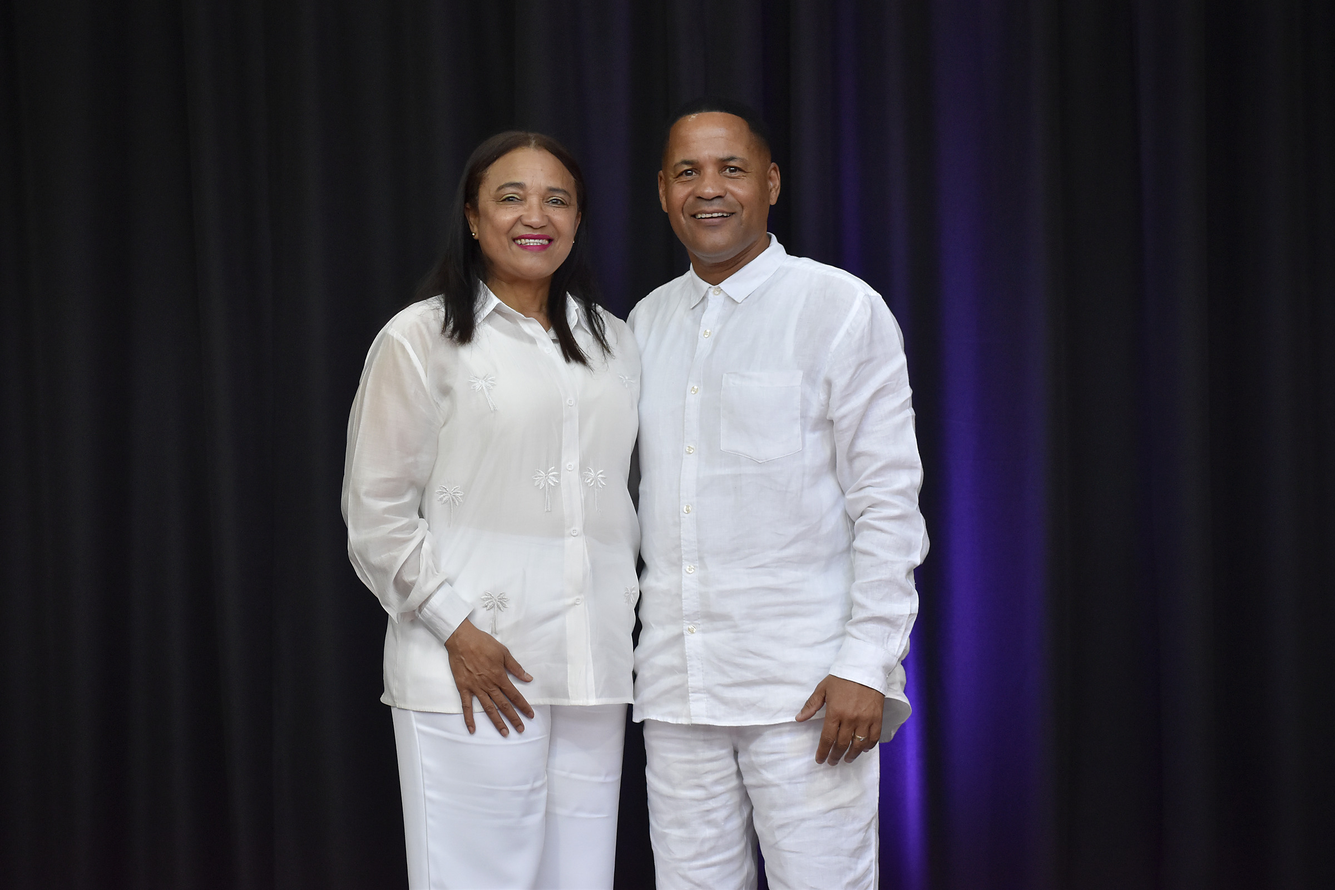
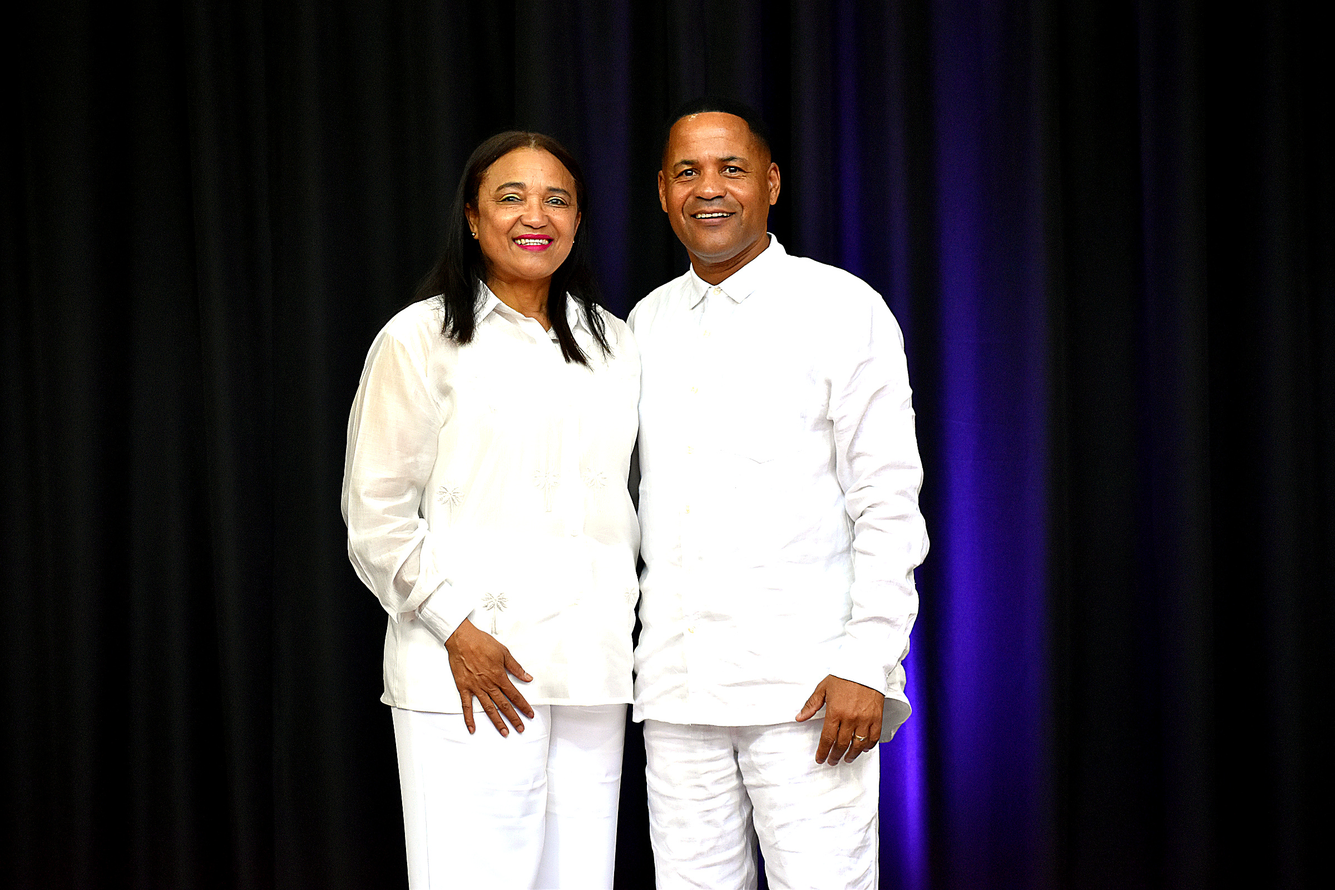
Enhance and shrink Connect leaders image; use site navy background for Home senior leaders

diff --git a/src/components/HomePage.tsx b/src/components/HomePage.tsx
@@ -205,7 +205,7 @@ export const HomePage: React.FC<HomePageProps> = ({
 
       {/* 3. Senior Leaders Showcase */}
       <section className="max-w-7xl mx-auto px-4 sm:px-6 lg:px-8">
-        <div className="rounded-3xl border border-slate-800 bg-black p-6 shadow-2xl sm:p-8">
+        <div className="rounded-3xl border border-slate-800 bg-slate-950 p-6 shadow-2xl sm:p-8">
           <div className="flex flex-col gap-3 sm:flex-row sm:items-end sm:justify-between">
             <div className="max-w-3xl space-y-2">
               <span className="text-xs font-mono font-bold tracking-wider uppercase text-amber-400">
@@ -232,14 +232,14 @@ export const HomePage: React.FC<HomePageProps> = ({
           </div>
 
           <div className="mt-6 grid max-w-md grid-cols-2 gap-4 sm:gap-5">
-            <figure className="relative aspect-[3/4] overflow-hidden rounded-2xl border border-white/15 bg-black shadow-xl">
+            <figure className="relative aspect-[3/4] overflow-hidden rounded-2xl border border-white/15 bg-slate-950 shadow-xl">
               <img
                 src="assets/aistudio/image_2_6cfe55f4.jfif"
                 alt="Prophet Herbert Mulondo preaching at Revival Church International"
                 referrerPolicy="no-referrer"
                 className="h-full w-full object-cover object-[46%_top]"
               />
-              <figcaption className="absolute inset-x-0 bottom-0 bg-gradient-to-t from-black via-black/70 to-transparent px-3 pb-3 pt-8">
+              <figcaption className="absolute inset-x-0 bottom-0 bg-gradient-to-t from-slate-950 via-slate-950/70 to-transparent px-3 pb-3 pt-8">
                 <div className="text-[10px] font-mono font-bold uppercase tracking-wider text-amber-300">
                   Senior Leader · Founder
                 </div>
@@ -249,14 +249,14 @@ export const HomePage: React.FC<HomePageProps> = ({
               </figcaption>
             </figure>
 
-            <figure className="relative aspect-[3/4] overflow-hidden rounded-2xl border border-white/15 bg-black shadow-xl">
+            <figure className="relative aspect-[3/4] overflow-hidden rounded-2xl border border-white/15 bg-slate-950 shadow-xl">
               <img
                 src="assets/aistudio/image3_1d7e9e76.jfif"
                 alt="Pastor Shelma Mulondo ministering at Revival Church International"
                 referrerPolicy="no-referrer"
                 className="h-full w-full object-cover object-[28%_top]"
               />
-              <figcaption className="absolute inset-x-0 bottom-0 bg-gradient-to-t from-black via-black/70 to-transparent px-3 pb-3 pt-8">
+              <figcaption className="absolute inset-x-0 bottom-0 bg-gradient-to-t from-slate-950 via-slate-950/70 to-transparent px-3 pb-3 pt-8">
                 <div className="text-[10px] font-mono font-bold uppercase tracking-wider text-blue-300">
                   Senior Leader · Co-Founder
                 </div>

diff --git a/src/components/ConnectPage.tsx b/src/components/ConnectPage.tsx
@@ -152,7 +152,7 @@ export const ConnectPage: React.FC<ConnectPageProps> = ({
               </button>
             </div>
 
-            <figure className="mt-6 overflow-hidden rounded-2xl border border-white/15 bg-black shadow-xl">
+            <figure className="mx-auto mt-6 w-full max-w-xl overflow-hidden rounded-2xl border border-white/15 bg-slate-950 shadow-xl">
               <div className="relative aspect-[3/2] w-full">
                 <img
                   src="assets/aistudio/leaders_HD.jpg"
@@ -160,11 +160,11 @@ export const ConnectPage: React.FC<ConnectPageProps> = ({
                   referrerPolicy="no-referrer"
                   className="h-full w-full object-cover object-center"
                 />
-                <figcaption className="absolute inset-x-0 bottom-0 bg-gradient-to-t from-black via-black/70 to-transparent px-4 pb-4 pt-12">
+                <figcaption className="absolute inset-x-0 bottom-0 bg-gradient-to-t from-slate-950 via-slate-950/70 to-transparent px-3 pb-3 pt-10">
                   <div className="text-[10px] font-mono font-bold uppercase tracking-wider text-amber-300">
                     Senior Leaders · Founder &amp; Co-Founder
                   </div>
-                  <div className="text-base font-bold text-white sm:text-lg">
+                  <div className="text-sm font-bold text-white sm:text-base">
                     Prophet Herbert &amp; Pastor Shelma Mulondo
                   </div>
                 </figcaption>
